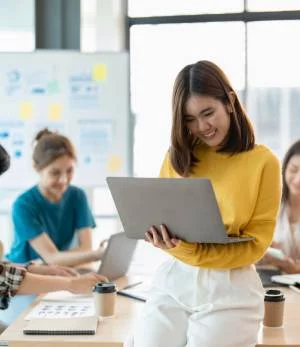
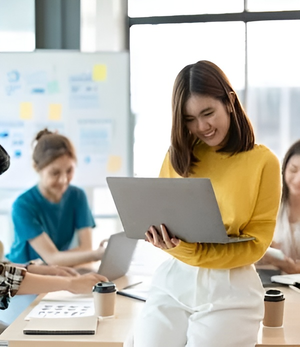
'final'

diff --git a/components/pages/homes/home/features.jsx b/components/pages/homes/home/features.jsx
@@ -21,7 +21,7 @@ const Features = () => {
                                     </div>
                                     <div className="services__one-single-service-content">
                                         <h4>Cloud Solutions Management</h4>
-                                        <p>IT infrastructure including network installation</p>
+                                        <p>Seamless deployment, scaling, and monitoring of cloud infrastructure to ensure business continuity and agility.</p>
                                     </div>
                                 </div>
                             </div>
@@ -31,18 +31,20 @@ const Features = () => {
                                         <i className="flaticon-mobile-phone-1"></i>
                                     </div>
                                     <div className="services__one-single-service-content">
-                                        <h4>Analytics Business Intelligence</h4>
-                                        <p>Comprehensive analytics services providing</p>
+                                        <h4>Analytics & Business Intelligence</h4>
+                                        <p>Transform data into actionable insights with advanced analytics, dashboards, and data-driven decision-making tools.</p>
                                     </div>
                                 </div>
                             </div>
                         </div>
                     </div>
+
                     <div className="col-xl-6 col-lg-7">
                         <div className="services-image-wrapper">
-                            <img src={image.src} alt="image" />
+                            <img src={image.src} alt="IT Services" />
                         </div>
                     </div>
+
                     <div className="col-xl-3">
                         <div className="row">
                             <div className="col-xl-12 col-md-6">
@@ -52,7 +54,7 @@ const Features = () => {
                                     </div>
                                     <div className="services__one-single-service-content">
                                         <h4>Custom Software Development</h4>
-                                        <p>Our services build reliable, scalable, and innovative</p>
+                                        <p>Designing scalable, secure, and tailored software solutions that drive innovation and business efficiency.</p>
                                     </div>
                                 </div>
                             </div>
@@ -63,12 +65,13 @@ const Features = () => {
                                     </div>
                                     <div className="services__one-single-service-content">
                                         <h4>Machine Learning Implementation</h4>
-                                        <p>Harnessing the power of artificial intelligence</p>
+                                        <p>Deploy intelligent systems that automate processes, enhance accuracy, and unlock predictive capabilities.</p>
                                     </div>
                                 </div>
                             </div>
                         </div>
                     </div>
+
                 </div>
             </div>
         </div>

diff --git a/components/pages/homes/home/about.jsx b/components/pages/homes/home/about.jsx
@@ -33,28 +33,34 @@ const About = () => {
                             <h2>Transform Business to Technology</h2>
                             <p>IT Technology is a broad category encompassing all aspec information technology and the application of technology in various industries. It includes areas such as software development</p>
                             <div className="about__one-content-service">
+                                
                                 <div className="service">
                                     <i className="far fa-check-circle"></i>
                                     <span>Data Management Experts</span>
                                 </div>
-                                <div className="service">
-                                    <i className="far fa-check-circle"></i>
-                                    <span>Mobile App Developments</span>
-                                </div>
+                                
                                 <div className="service">
                                     <i className="far fa-check-circle"></i>
                                     <span>IT Infrastructure Solutions</span>
+                                </div>
+                                   <div className="service">
+                                    <i className="far fa-check-circle"></i>
+                                    <span>Web App Developments</span>
                                 </div>
                                 <div className="service">
                                     <i className="far fa-check-circle"></i>
                                     <span>Data Analytics Consulting</span>
                                 </div>
-                                 <div className="service">
+                                  <div className="service">
                                     <i className="far fa-check-circle"></i>
-                                    <span>Web App Developments</span>
+                                    <span>AI Software Development</span>
+                                </div>
+                                  <div className="service">
+                                    <i className="far fa-check-circle"></i>
+                                    <span>Mobile  App Development</span>
                                 </div>
                             </div>
-                            <Link href="/about" className="btn-one">Discover More<i className="fas fa-arrow-right"></i></Link>
+                            <Link href="/services" className="btn-one">Discover More<i className="fas fa-arrow-right"></i></Link>
                         </div>
                     </div>
                 </div>

diff --git a/components/layout/headers/header-menu.jsx b/components/layout/headers/header-menu.jsx
@@ -5,17 +5,17 @@ const MainMenu = () => {
         <>
             <ul>
                     <li><Link href="/">Home</Link></li>
-                <li className="menu-item-has-children"><Link href="#">Services <i className="fas fa-angle-down"></i></Link>
+                <li className="menu-item-has-children"><Link href="#">Consulting<i className="fas fa-angle-down"></i></Link>
                     <ul className=' sub-menu ' >
-                        <li><Link href="/services/Data-Analytics-Consulting">Data Analytics Consulting</Link></li>
+                        <li><Link href="/services/Data-Analytics-Consulting">Data Analytics </Link></li>
                         <li><Link href="/services/Web-App-Developments">Web App Developments</Link></li>
                         <li><Link href="/services/cloud-computing">Cloud Computing</Link></li>
                         <li><Link href="/services/AI-Software-Development">AI Software Development</Link></li>
                         <li><Link href="/services/Legacy-Software-Modernization">Legacy Software Modernization</Link></li>
                         <li><Link href="/services">View more services</Link></li>
                     </ul>
-                </li>
-                
+                </li> 
+                 <li ><Link href="https://codiin.com/" target='_blank' >Training</Link></li>
                 <li className="menu-item-has-children"><Link href="/blog">Blogs</Link></li>
                 <li><Link href="/about">About us</Link></li>
                 <li><Link href="/contact">Contact</Link></li>

diff --git a/components/layout/headers/mobile-menu/responsive-menu.jsx b/components/layout/headers/mobile-menu/responsive-menu.jsx
@@ -16,11 +16,11 @@ const ResponsiveMenu = () => {
           <Link href="/">Home</Link>
         </li>
         <li className="menu-item-has-children">
-          <Link href="#">Services</Link>
+          <Link href="#">Consult</Link>
           <ul className="sub-menu" style={activeSubMenu("services")}>
             <li>
               <Link href="/services/Data-Analytics-Consulting">
-                Data Analytics Consulting
+                Data Analytics
               </Link>
             </li>
             <li>
@@ -50,6 +50,7 @@ const ResponsiveMenu = () => {
             onClick={() => active("services")}
           ></a>
         </li>
+           <li ><Link href="https://codiin.com/" target='_blank' >Training</Link></li>
         <li>
           <Link href="/blog">Blogs</Link>
         </li>

diff --git a/components/pages/homes/home/banner.jsx b/components/pages/homes/home/banner.jsx
@@ -11,7 +11,7 @@ const BannerOne = () => {
                     <div className="shape banner-shape-2"></div>
                     <div className="shape banner-shape-3"></div>
                     <div className="shape banner-shape-4"></div>
-                    <img className="shape banner-shape-5" src={bannerShape.src} alt="image" />
+                    <img className="shape banner-shape-5 bac" src={bannerShape.src} alt="image" />
                     <div className="shape banner-shape-7"></div>
                     <div className="shape banner-shape-6"></div>
                 </div>
